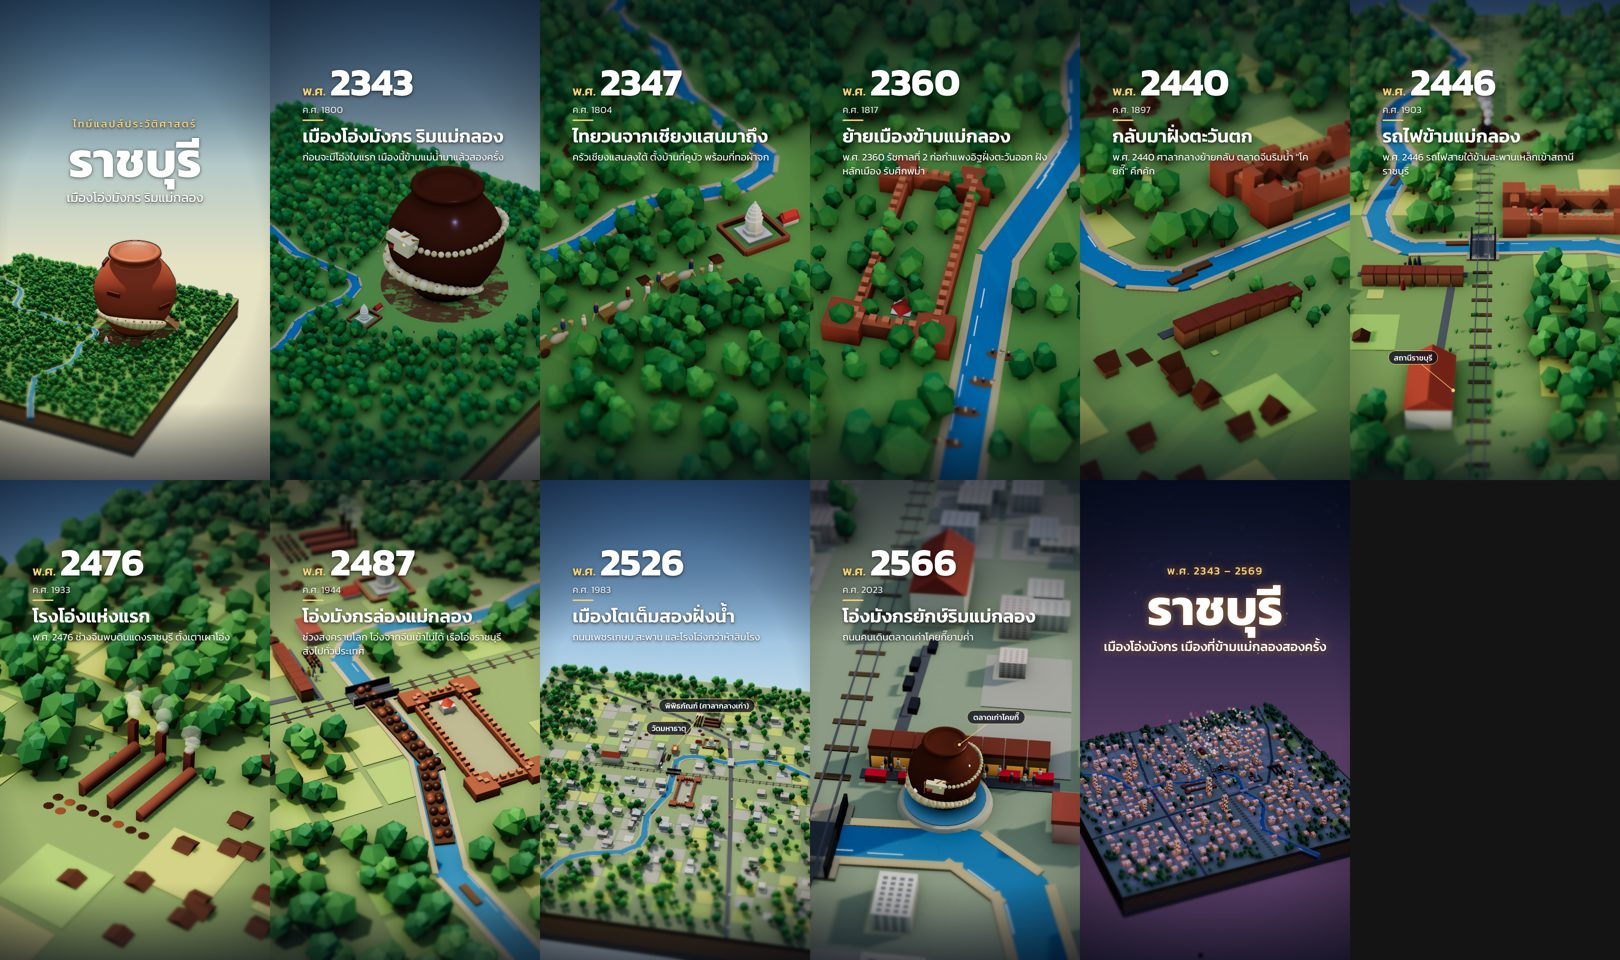
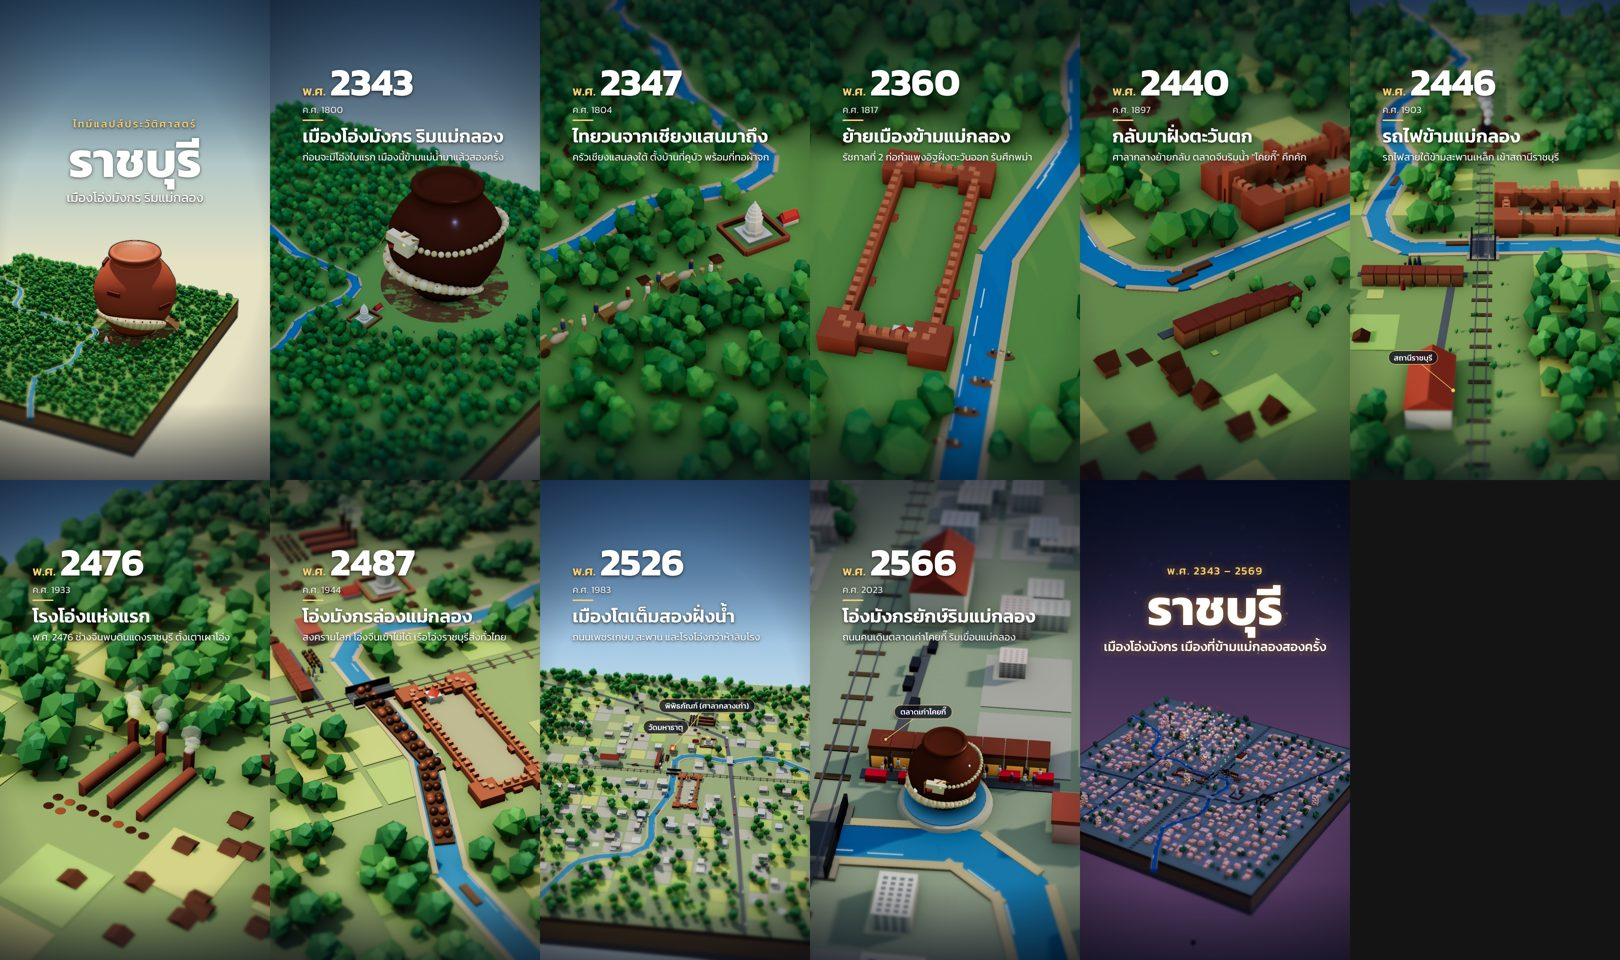
Ratchaburi v1: the wall round the real city pillar, and the contact sheet
[local] found nothing of the 2360 wall on the imagery, so it is drawn from the documented size round
the city pillar shrine's OSM pin, centred on the origin because the engine puts the corner forts at
+-hx, +-hz; the gates turn to the wall they stand in. The Thai Yuan's cart track is cleared so the
column reads, and the towers are kept off the river so the payoff sees the jar fountain and Koi Ki.

diff --git a/src/cities/ratchaburi/index.ts b/src/cities/ratchaburi/index.ts
@@ -51,7 +51,7 @@ export const RATCHABURI: CityConfig = {
     rail: {axis: 'z', pos: RAIL_X, open: [1902.6, 1903.2], station: STATION, stationYear: 1901.5},
     trains: SOUND_EVENTS.trains.map((tr) => ({...tr, dir: tr.dir as 1 | -1})),
     city: {
-      hx: 5,
+      hx: 5.6,
       hz: 2,
       outline: WALL,
       moat: [1e9, 1e9],
@@ -63,12 +63,13 @@ export const RATCHABURI: CityConfig = {
       groundFrom: 1817.1,
     },
     gates: [
-      {x: -2.5, z: -1.6, rot: 0, width: 0.6},
-      {x: 2.5, z: -1.6, rot: 0, width: 0.6},
-      {x: -2.5, z: 2.0, rot: 0, width: 0.6},
-      {x: 2.5, z: 2.0, rot: 0, width: 0.6},
-      {x: -5, z: 0.2, rot: Math.PI / 2, width: 0.6},
-      {x: 5, z: 0.2, rot: Math.PI / 2, width: 0.6},
+      // two gates on each long side, one at each end (6 gates, Gemini)
+      {x: -2, z: -2, rot: Math.PI / 2, width: 0.6},
+      {x: 2.4, z: -2, rot: Math.PI / 2, width: 0.6},
+      {x: -2, z: 2, rot: Math.PI / 2, width: 0.6},
+      {x: 2.4, z: 2, rot: Math.PI / 2, width: 0.6},
+      {x: -5.6, z: -0.8, rot: 0, width: 0.6},
+      {x: 5.6, z: 0, rot: 0, width: 0.6},
     ],
     houses: {
       // the walled town fills after 2360 and empties once the army has it (2440 on)
@@ -90,10 +91,10 @@ export const RATCHABURI: CityConfig = {
       ],
       built: [1790, 110],
     },
-    forestCity: 1817,
+    forestCity: 1810,
     clearings: [
       // the walled town's ground, cleared as the wall goes up
-      [0, 0.2, 9, 1816.5],
+      [0, 0, 9, 1806],
       // the cart track the Thai Yuan come down (open fields along it)
       ...YUAN_DISCS.map(([x, z]) => [x, z, 2.2, -1e9] as [number, number, number, number]),
       // the cover's jar stands on open fields

diff --git a/src/cities/ratchaburi/places.ts b/src/cities/ratchaburi/places.ts
@@ -18,11 +18,14 @@ export const RIVER: P[] = [
 ];
 
 // the walled town of 2360 on the east bank (Gemini: 6 forts, 6 gates, ~5-6 sen x 20 sen, i.e.
-// ~200-240 x 800 m, along the river; Gemini's pin 13.5441, 99.8255 at its west end, inside today's
-// Phanurangsi camp). [local] has not traced it yet: drawn from the documented size along the north
-// bank of the river's eastward reach, east of the Southern Line. Approximate.
-export const WALL: P[] = [[-5, -1.6], [5, -1.6], [5, 2.0], [-5, 2.0]];
-export const PILLAR: P = [-3.4, 0.2]; // ศาลหลักเมือง, in the camp at the wall's west end
+// ~200-240 x 800 m, along the river). [local] found nothing of it on Esri z18 over today's
+// Phanurangsi camp (README, 89fb533): drawn from the documented size along the north bank of the
+// river's eastward reach, from just east of the Southern Line, round the city pillar. Approximate.
+// The engine draws the corner forts at +-hx, +-hz, so the outline is kept centred on the origin.
+export const WALL: P[] = [[-5.6, -2], [5.6, -2], [5.6, 2], [-5.6, 2]];
+// ศาลเจ้าพ่อหลักเมืองราชบุรี, OSM node 2408582421 (13.54412, 99.82548, i.e. [-5.4, 0.5]), drawn
+// 40 m in so it stands inside the wall's west end
+export const PILLAR: P = [-4.9, 0.5];
 
 // the old west-bank town (Jayarajapuri - Ayutthaya), round Wat Mahathat
 export const MAHATHAT: P = [-21, -2.8]; // the prang, OSM node 2578808283

diff --git a/src/cities/ratchaburi/geo.ts b/src/cities/ratchaburi/geo.ts
@@ -5,7 +5,7 @@ import {KHU_BUA, KILNS, MAHATHAT, OLD_HALL, PILLAR, STATION} from './places';
 // Koi Ki from Gemini's §4 (docs/briefs/ratchaburi_research_gemini.md).
 export const GEO: Geo = {
   points: [
-    {name: 'City pillar, 2360 walled town (origin side)', lat: 13.5441, lon: 99.8255, at: PILLAR, centre: true, source: 'Gemini §4 (Phanurangsi camp)'},
+    {name: 'City pillar shrine, 2360 walled town', lat: 13.54412, lon: 99.82548, at: PILLAR, centre: true, source: 'OSM node 2408582421'},
     {name: 'Wat Mahathat prang', lat: 13.5466, lon: 99.8144, at: MAHATHAT, source: 'OSM node 2578808283'},
     {name: 'Ratchaburi station', lat: 13.5306, lon: 99.8238, at: STATION, source: 'OSM node 259729391'},
     {name: 'Koi Ki old market', lat: 13.5402, lon: 99.8218, at: [-11.7, 8.6], source: 'Gemini §4'},

diff --git a/docs/briefs/ratchaburi.md b/docs/briefs/ratchaburi.md
@@ -144,9 +144,10 @@ is built as proposed unless the owner changes it at the stills.
 
 ## v1 build (cloud, 30 Oct)
 
-- Origin = the middle of the 2360 walled town (the engine centres its wall on the origin); the wall is
-  drawn from the documented size (~800 × 240 m) east of the rail on the north bank of the eastward
-  reach, **approximate until [local] traces it**.
+- Origin = the middle of the 2360 walled town (the engine centres its wall and corner forts on the
+  origin). [local] found nothing of the wall on Esri z18 (89fb533), so it is drawn from the documented
+  size (~900 × 320 m drawn, 6 gates) along the north bank of the eastward reach, east of the rail,
+  round the city pillar shrine (OSM node 2408582421). **Approximate.**
 - Beats: hero (legend, jar thrown, gone into the earth by 6.8 s) → yuan 2347 (procession down the west
   bank to Khu Bua) → wall 2360 (build, ferries over the river) → koiki 2440 (trade) → train 2446
   (arrive) → kiln 2476 (build) → jars 2484–2490 (trade, jar boats downriver) → growth 2493–2559 →
